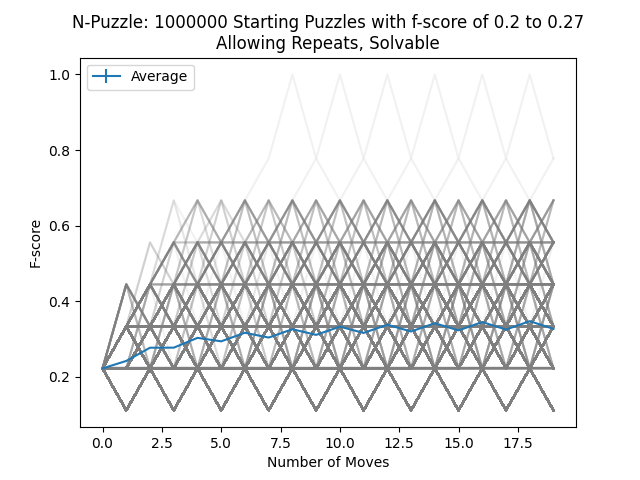
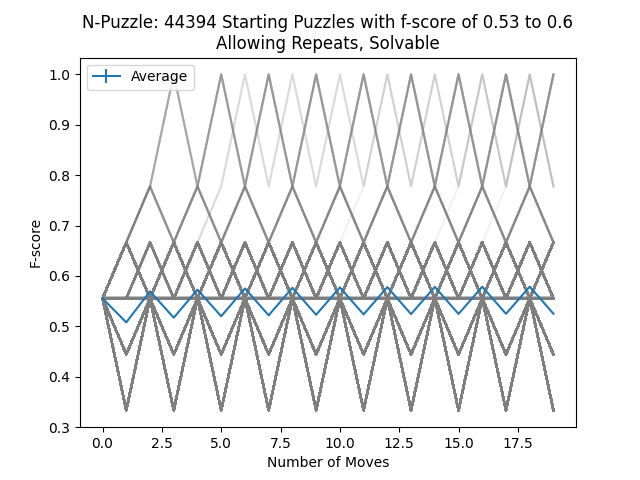
Added readme and refactored code

diff --git a/n-puzzle/n-puzzle.py b/n-puzzle/n-puzzle.py
@@ -5,7 +5,7 @@ import matplotlib.pyplot as plt
 import numpy as np
 import random
 import math 
-import timeit
+import time
 
 
 class Probability_Tree(object):
@@ -286,7 +286,7 @@ def get_best_f_score_path(initial_configuration = None, side_length = 3, depth =
 
 
     
-def get_mult_puzzle_results(num_traps, max_iterations = 100000, artificial_start_traps = True, num_splits = 20, depth = 20, plot=True, allow_repeats=True, use_solvable_puzzles=True):
+def get_mult_puzzle_results(num_puzzles, max_iterations = 100000, artificial_start_traps = True, num_splits = 20, depth = 20, plot=True, allow_repeats=True, use_solvable_puzzles=True):
     #if the number of splits are 5, we want to go from 0-0.2, 0.2-0.4, 0.4-0.6, 0.6-0.8, 0.8-1.0
     results = [[] for i in range(num_splits)]
     num_in_each = [0 for i in range(num_splits)]
@@ -304,19 +304,19 @@ def get_mult_puzzle_results(num_traps, max_iterations = 100000, artificial_start
     initial_configuration = get_configuration(random=True, side_length= 3)
     desired_configuration = get_configuration(random=False, side_length=3)
     number_of_configurations_that_gained_higher_fscore = 0
-    num_traps_used = 0
+    num_puzzles_used = 0
     
     for i in range(max_iterations):
         if(artificial_start_traps):
-            if(num_traps_used >= num_traps * num_splits): break
+            if(num_puzzles_used >= num_puzzles * num_splits): break
             #initial_configuration = get_high_f_score_configuration_using_original_transformer(random.randint(0,20), desired_configuration)
             initial_configuration = get_solvable_configuration(random.randint(10,30), desired_configuration, solvable=use_solvable_puzzles)
             initial_f = f(initial_configuration, desired_configuration)
 
             index = min(num_splits - 1, int(initial_f/size_of_split))
 
-            if(num_in_each[index] >= num_traps): continue 
-            num_traps_used += 1
+            if(num_in_each[index] >= num_puzzles): continue 
+            num_puzzles_used += 1
             f_scores = get_best_f_score_path(initial_configuration, side_length = 3, depth = depth, 
                                              break_at_end = False, plot=False, allow_repeats=allow_repeats)
             if(f_scores[-1] >= initial_f or f_scores[-2] >= initial_f): number_of_configurations_that_gained_higher_fscore+=1
@@ -335,7 +335,7 @@ def get_mult_puzzle_results(num_traps, max_iterations = 100000, artificial_start
     variance_of_variances_x = []
     print("num each", num_in_each)
     for i in range(num_splits):
-        if(num_in_each[i] < num_traps): continue
+        if(num_in_each[i] < num_puzzles): continue
         data = results[i]
         data = [data[j]/num_in_each[i] for j in range(depth)]
         label = round(i*size_of_split,2)
@@ -353,7 +353,7 @@ def get_mult_puzzle_results(num_traps, max_iterations = 100000, artificial_start
     
     file = open("n-puzzle.txt", "a")
     file.write("---------------------------------------------\n")
-    file.write("The number of puzzle is " + str(num_traps) + "\n")
+    file.write("The number of puzzle is " + str(num_puzzles) + "\n")
     file.write("Getting high puzzle by going bacwkwards from solved configuration " + str(artificial_start_traps) + "\n")
     file.write("The number of splits is " + str(num_splits) + "\n")
     file.write("Solvable Puzzles " + str(use_solvable_puzzles) + "\n")
@@ -362,7 +362,7 @@ def get_mult_puzzle_results(num_traps, max_iterations = 100000, artificial_start
     file.write("The standard deviation of standard deviations is " + str(std_of_std) + "\n")
     average_std = np.average(variance_of_variances)
     file.write("The average standard deviation is " + str(average_std) + "\n")
-    percent_gained_higher_f = (number_of_configurations_that_gained_higher_fscore/num_traps) * 100
+    percent_gained_higher_f = (number_of_configurations_that_gained_higher_fscore/num_puzzles) * 100
     file.write("The number of configurations that gained a higher f_score: " + str(percent_gained_higher_f) + "% \n")
     file.write("")
     file.close()
@@ -373,7 +373,7 @@ def get_mult_puzzle_results(num_traps, max_iterations = 100000, artificial_start
         plt.xlabel('Number of Moves')
         plt.ylabel('F-score')
         title = "N-Puzzle: "
-        title += str(num_traps) + " Starting Puzzles, "
+        title += str(num_puzzles) + " Starting Puzzles, "
         if(allow_repeats): title += "Allowing Repeats, "
         else: title += "No Repeats, "
         if(is_solvable): title += "Solvable"
@@ -386,7 +386,7 @@ def get_mult_puzzle_results(num_traps, max_iterations = 100000, artificial_start
 
 
     
-def explore_one_split(num_traps, num_plotted, max_iterations = 100000,  num_splits = 20, which_split = 0, depth = 20,  allow_repeats=True, use_solvable_puzzles=True):
+def explore_one_split(num_puzzles, num_plotted, max_iterations = 100000,  num_splits = 20, which_split = 0, depth = 20,  allow_repeats=True, use_solvable_puzzles=True):
     #if the number of splits are 5, we want to go from 0-0.2, 0.2-0.4, 0.4-0.6, 0.6-0.8, 0.8-1.0
     num_in_split = 0
     results_per_depth = [[] for i in range(depth)]
@@ -395,10 +395,10 @@ def explore_one_split(num_traps, num_plotted, max_iterations = 100000,  num_spli
     initial_configuration = get_configuration(random=True, side_length= 3)
     desired_configuration = get_configuration(random=False, side_length=3)
     number_of_configurations_that_gained_higher_fscore = 0
-    num_traps_used = 0
+    num_puzzles_used = 0
     
     for i in range(max_iterations):
-        if(num_traps_used >= num_traps): break
+        if(num_puzzles_used >= num_puzzles): break
         #initial_configuration = get_high_f_score_configuration_using_original_transformer(random.randint(0,20), desired_configuration)
         initial_configuration = get_solvable_configuration(random.randint(10,30), desired_configuration, solvable=use_solvable_puzzles)
         initial_f = f(initial_configuration, desired_configuration)
@@ -406,7 +406,7 @@ def explore_one_split(num_traps, num_plotted, max_iterations = 100000,  num_spli
         index = min(num_splits - 1, int(initial_f/size_of_split))
 
         if(index != which_split): continue 
-        num_traps_used += 1
+        num_puzzles_used += 1
         f_scores = get_best_f_score_path(initial_configuration, side_length = 3, depth = depth, 
                                             break_at_end = False, plot=False, allow_repeats=allow_repeats)
         if(f_scores[-1] >= initial_f or f_scores[-2] >= initial_f): number_of_configurations_that_gained_higher_fscore+=1
@@ -427,7 +427,7 @@ def explore_one_split(num_traps, num_plotted, max_iterations = 100000,  num_spli
 
     # we plot the average 
     print("num each", num_in_split)
-    if (num_in_split < num_traps): 
+    if (num_in_split < num_puzzles): 
         print("Expected Value not achieved")
     #data = [data[j]/num_in_split for j in range(depth)]
     y_error = []
@@ -498,12 +498,12 @@ def run():
     
 
 
-start = timeit.timeit()
-explore_one_split(1000000, 1000, max_iterations = 10000000,  num_splits = 15, which_split = 3, depth = 20,  allow_repeats=True)
-end = timeit.timeit()
-print(end-start)
+start = time.time()
+explore_one_split(1000000, 1000, max_iterations = 10000000,  num_splits = 15, which_split = 8, depth = 20,  allow_repeats=True)
+end = time.time()
+print(end-start +  "seconds")
 
-#get_mult_puzzle_results(num_traps=400, max_iterations=10**6,  plot=True,num_splits=15, allow_repeats=True)
+# get_mult_puzzle_results(num_puzzles=50, max_iterations=10**3,  plot=True,num_splits=15, allow_repeats=True)
 
 
     #we can only move 0, and we want to see the probability tree of the configuration
